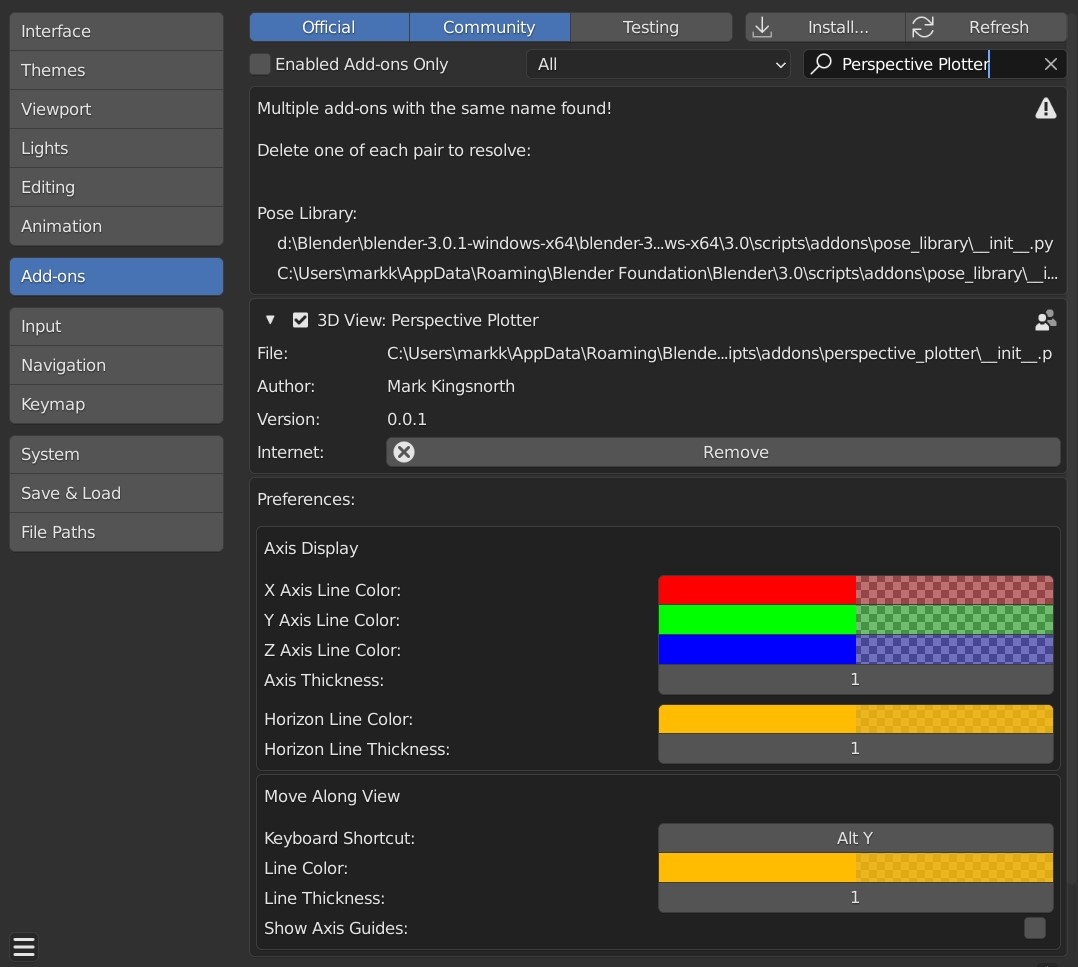
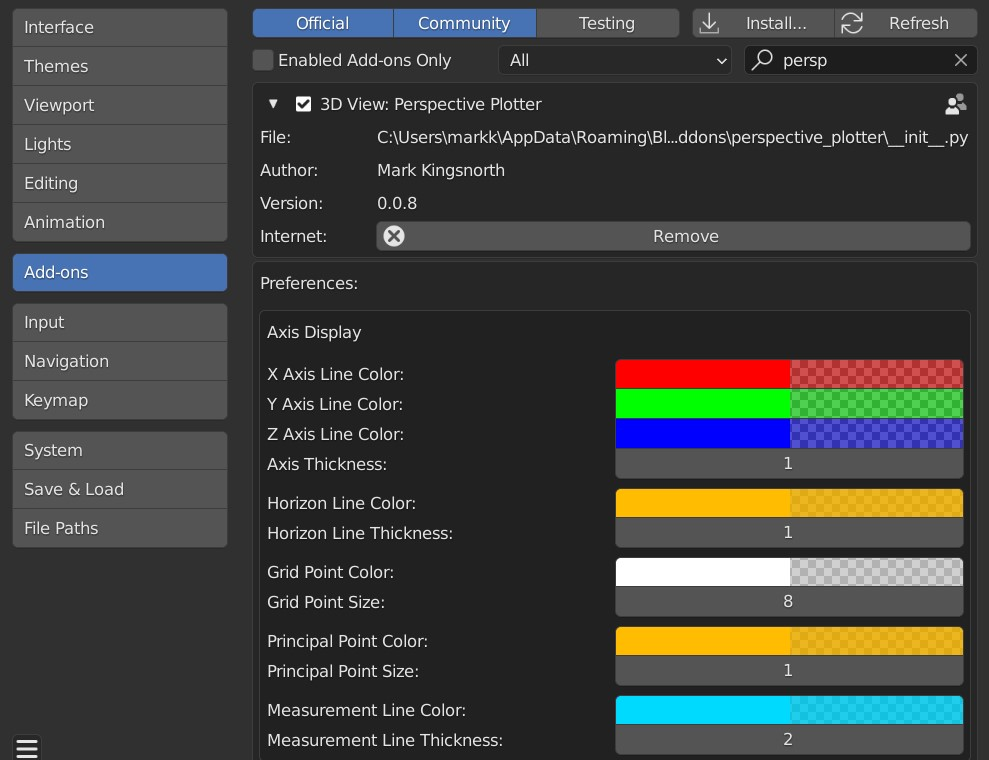
Updating to reflect latest changes such as axis measurement

diff --git a/docs/settings.rst b/docs/settings.rst
@@ -75,27 +75,42 @@ Focal Length
 
 Focal Length value which is pre-calculated in 2 and 3 point perspective modes.  In one-point perspective mode, this will provide further depth information to the camera.
 
-Camera Distance
+Reference Distance
 ------------------------------------------
 
-The camera is moved away from the center of the scene by a set distance which is controlled here.
+There are parameters that will help you set the camera’s distance from the :ref:`target location`, something that cannot be determined from vanishing points alone.
 
-Offset Location
+Default: Camera Distance
+^^^^^^^^^^^^^^^^^^^^^^^^^^^^^^^^^^^^^^^^^^
+
+.. image:: images/set_camera_distance.gif
+    :alt: Using the Reference Axis
+
+By default, the camera is moved away from the :ref:`target location` by a set distance which is controlled by the **Camera Distance** parameter.
+
+Along X/Y/X Axis
+^^^^^^^^^^^^^^^^^^^^^^^^^^^^^^^^^^^^^^^^^^
+
+.. image:: images/set_along_axis.gif
+    :alt: Using the Reference Axis
+
+You can alternatively set the camera distance by measuring a line from the :ref:`target location` to a vanishing point.  This is useful when you know the length of something in the reference image.
+
+.. image:: images/set_along_axis_example.jpg
+    :alt: Using the Reference Axis
+
+To set the camera distance this way, change the “Default” setting under “Reference Distance” to “Along X, Y or Z Axis”.  
+
+You’ll see a shortened blue line appear along the camera’s scene origin to the vanishing point of the specified vanishing point axis. You can adjust this line by dragging on either end or by altering the relative points in the panel by clicking the small measuring symbol next to “Reference Length”.
+
+Grid Point
 ------------------------------------------
 
-.. image:: images/offset_location.gif
-    :alt: Offset Location
+.. image:: images/grid_point_move.gif
+    :alt: Using the Reference Axis
 
-This offsets the camera's location from the middle of the scene.
+In every mode, you’ll notice a white dot in the center of the view.  This is the position of the :ref:`target location`.  You can left click and drag this point to change the position of the grid’s center from the view.
 
-Offset Rotation
-------------------------------------------
-
-.. image:: images/offset_rotation.gif
-    :alt: Offset Rotation
-
-
-This can be used to alter the camera's rotation, relative to the center.
 
 Vanishing Point 1
 ------------------------------------------
@@ -121,7 +136,7 @@ This changes the axis for the second vanishing point (Default: Y).  The third va
 Principal Point
 ------------------------------------------
 
-.. figure:: images/principal_point.gif
+.. figure:: images/principal_point_2.gif
     :alt: Principal Point
 
 The principal point describes where the middle ray of the scene would hit the camera lens.  For one and two point perspective modes, this is assumed to also be the middle of the view by default.  
@@ -138,6 +153,31 @@ Best described in the documentation for |fSpy|:
 .. |fSpy| raw:: html
 
    <a href="https://fspy.io/">fSpy</a>
+
+
+Target Location
+------------------------------------------
+
+This is the position that the camera looks at, which is by default the center of the 3D world.
+
+You can change the target location in the side panel by selecting the “Manual” from the :ref:`Target Location` drop-down.  You will then see the location and rotation parameters to change the  target location.
+
+Location
+^^^^^^^^^^^^^^^^^^^^^^^^^^^^^^^^^^^^^^^^^^
+
+.. image:: images/offset_location.gif
+    :alt: Offset Location
+
+This offsets the camera's location from the middle of the scene.
+
+Rotation
+^^^^^^^^^^^^^^^^^^^^^^^^^^^^^^^^^^^^^^^^^^
+
+.. image:: images/offset_rotation.gif
+    :alt: Offset Rotation
+
+
+This can be used to alter the camera's rotation, relative to the center.
 
 
 Reset Defaults

diff --git a/docs/tools.rst b/docs/tools.rst
@@ -22,6 +22,7 @@ Move Along View
 #. Select the vertex or object that you wish to move along the viewport's line of sight.
 #. With the mouse hovering in the view you wish to move along, press :kbd:`Ctrl-Y` (default) or press the *Move Along View* button in *Perspective Plotter*'s side panel.
 #. Moving the mouse will change the position of the vertex or object along the view.  Guide lines are displayed in other top/down or left/right viewports to show where the view line is.
+#. Left-click the mouse button to commit the position, or right-click to cancel.
 
 You can change the viewport shortcut under the add-on's :ref:`Preferences` section.
 
@@ -92,3 +93,13 @@ You will need to set a background image or video before pressing the button:
 
     .. image:: images/match_bg_btn.jpg
         :alt: Open BG Image
+
+====================================================================
+Flatten Horizon Line
+====================================================================
+
+
+.. image:: images/flatten_horizon.gif
+    :alt: Flatten Horizon Line
+
+*Flatten Horizon Line* will attempt to adjust vanishing points to make the horizon horizontal.  Click the button on the panel and the control points will be adjusted to flatten the horizon.

diff --git a/docs/quick_start.rst b/docs/quick_start.rst
@@ -14,12 +14,12 @@ Quick Start
     .. image:: images/pplotter_panel.jpg
         :alt: Perspective Plotter Panel
 
-#. Click the button *Plot Perspective*. The button will now say *Plotting...*. The camera will adjust to a default position with the perspective line control points set ready to be adjusted.
+#. Click the button *Plot Perspective*. The button will now say *Plotting...*. The camera will adjust to a default position with the perspective line control points ready to be adjusted.
 
     .. image:: images/pplotter_panel_plotting.jpg
         :alt: Perspective Plotter Panel
 
-#. Axis control axes will appear that allow you to align the camera to different vanishing points.  Left-Click and drag on the ends of these axes to manipulate them.  There is a pair of control axes for each vanishing point.  By default, you will be in two-point perspective mode:
+#. These perspective allow you to align the camera to different vanishing points.  Left-Click and drag on the ends of these axes to manipulate them.  There is a pair of control axes for each vanishing point.  By default, you will be in two-point perspective mode:
 
     .. image:: images/plotter_demo_1.gif
         :alt: Perspective Plotter Controls

diff --git a/docs/index.rst b/docs/index.rst
@@ -14,7 +14,7 @@ Perspective Plotter
 What is Perspective Plotter?
 ---------------------------------
 
-|Perspective Plotter| is a |Blender| add-on for modellers, architects and artists who need to match a Blender camera to an image.  This is useful for creating 3D models from 2D sketches, matching a 3D scene to a 2D photo, or animating a camera dynamically to match a video.
+Match a camera to an image with |Perspective Plotter| , an interactive |Blender| add-on for modelers, architects and artists.  This is useful for creating 3D models from 2D sketches, matching a 3D scene to a 2D photo, or animating a camera dynamically to match a video.
 
 Defining perspective lines in the viewport sets a camera's focal length, location and position in real time.  The add-on will also work with more than one camera in a scene.
 

diff --git a/docs/preferences.rst b/docs/preferences.rst
@@ -31,7 +31,35 @@ Horizon Line thickness
 
 Change the thickness of the horizon line.
 
+Grid Point color
+---------------------
 
+Change the color and transparency of the grid point.
+
+Grid Point size
+---------------------------
+
+Change the diameter of the grid point.
+
+Principal Point color
+---------------------
+
+Change the color and transparency of the principal point.
+
+Principal Point size
+---------------------------
+
+Change the diameter of the principal point.
+
+Measurement Line color
+------------------------
+
+Change the color and transparency of the measurement line.
+
+Measurement Line thickness
+---------------------------
+
+Change the thickness of the measurement line.
 
 ======================================================
 Move Along View Preferences
